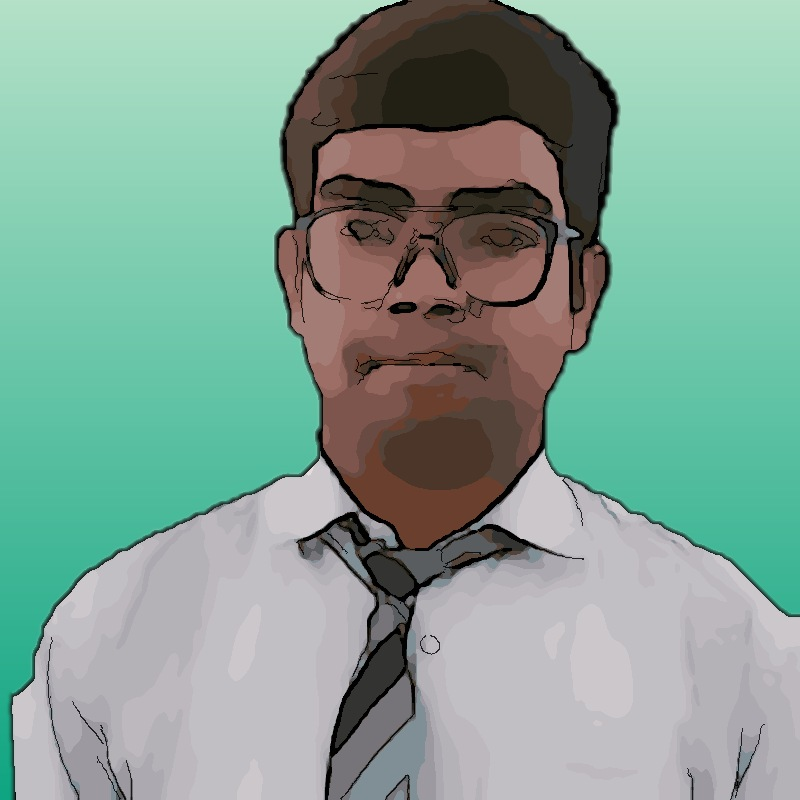
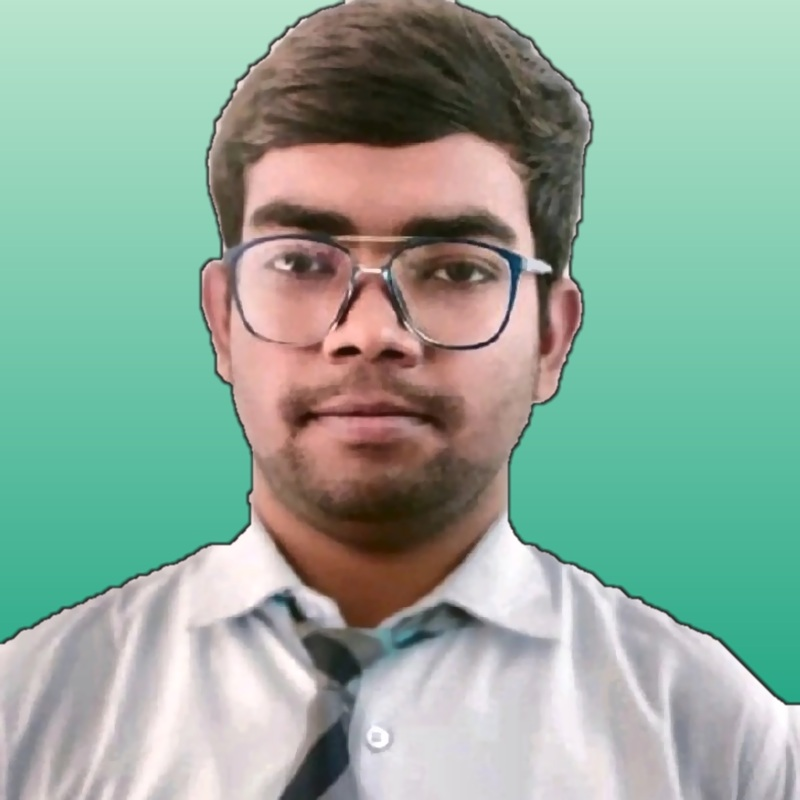
Use realistic profile photo

diff --git a/index.html b/index.html
@@ -5,7 +5,7 @@
 <meta name="viewport" content="width=device-width, initial-scale=1">
 <title>Shivam Kashyap — Portfolio</title>
 <meta name="description" content="Shivam Kashyap — backend & ML engineer. Go services, Python LLM/RAG systems, and machine learning projects.">
-<link rel="icon" href="profile.jpg">
+<link rel="icon" href="profile.jpg?v=2">
 <link rel="preconnect" href="https://fonts.googleapis.com">
 <link href="https://fonts.googleapis.com/css2?family=Space+Grotesk:wght@500;700&family=Inter:wght@400;500&family=JetBrains+Mono:wght@400&display=swap" rel="stylesheet">
 <style>
@@ -115,7 +115,7 @@ footer{padding:32px 0;text-align:center;color:var(--muted);font-size:13px;border
         <a class="btn" href="#contact">Contact</a>
       </div>
     </div>
-    <img class="avatar" src="profile.jpg" alt="Shivam Kashyap">
+    <img class="avatar" src="profile.jpg?v=2" alt="Shivam Kashyap">
   </div>
 </header>
 
